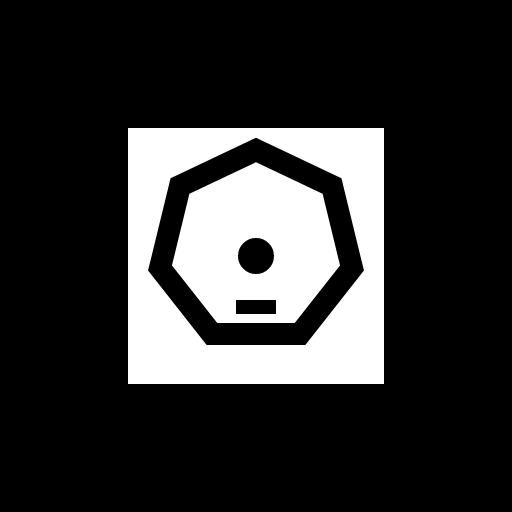
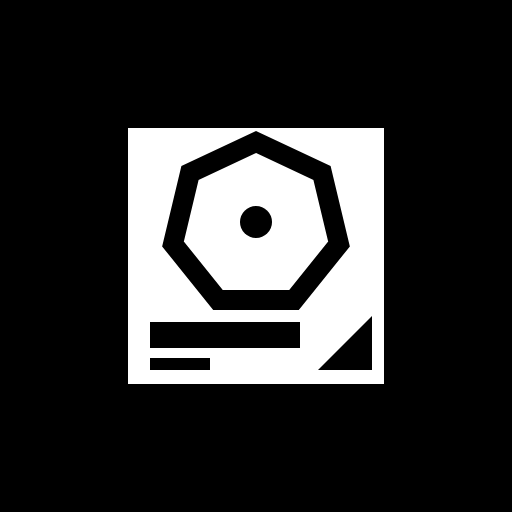
AR: znacznik asymetryczny (trójkąt, pasek), próg pewności i wygładzanie, żeby obraz nie obracał się do góry nogami
Claude-Session: https://claude.ai/code/session_01RfBYdmB7px8KtF7YXiSP7p

Changed region(s): [[0.2812, 0.25, 0.7188, 0.75], [0.625, 0.625, 0.75, 0.75], [0.4688, 0.4062, 0.5312, 0.5312]]

diff --git a/public/ar/index.html b/public/ar/index.html
@@ -15,7 +15,7 @@
 <body>
 <a-scene embedded arjs="sourceType: webcam; detectionMode: mono; debugUIEnabled: false;" vr-mode-ui="enabled: false" renderer="logarithmicDepthBuffer: true;">
   <a-assets><img id="mapa" src="./przekroj.png" crossorigin="anonymous" /></a-assets>
-  <a-marker type="pattern" url="./znacznik.patt" id="marker">
+  <a-marker type="pattern" url="./znacznik.patt" id="marker" smooth="true" smoothCount="8" smoothTolerance="0.01" smoothThreshold="3" minConfidence="0.6">
     <!-- Przekrój unosi się nad stroną: siedem wzgórz i jedna zapalona brama -->
     <!-- Przekrój stoi PIONOWO nad stroną jak kartka wyjęta z ziemi; brama z adresu unosi się i pulsuje -->
     <a-plane src="#mapa" width="2.0" height="1.0" position="0 0.6 0" rotation="0 0 0" material="shader: flat; transparent: true; opacity: 0.96" animation="property: position; from: 0 0.1 0; to: 0 0.6 0; dur: 900; easing: easeOutCubic"></a-plane>
